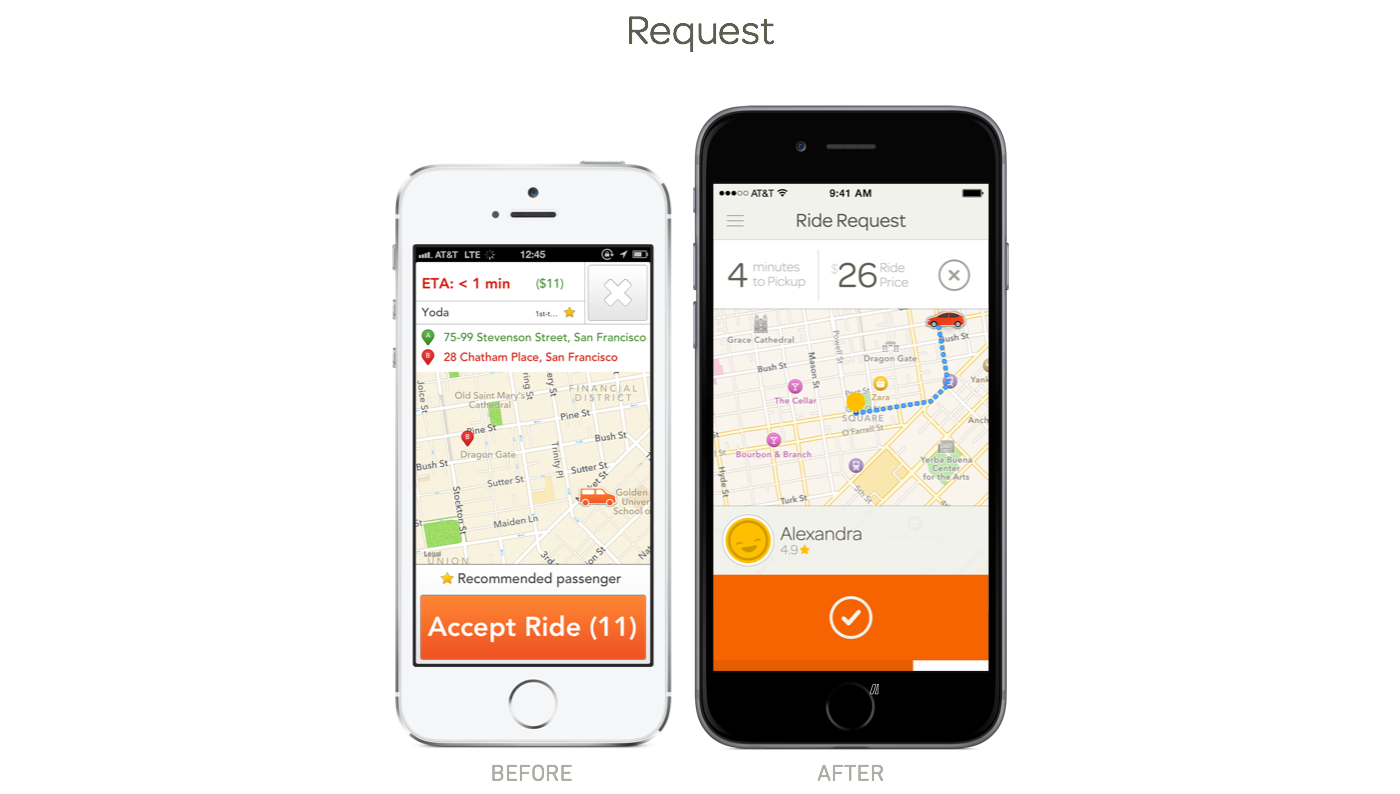
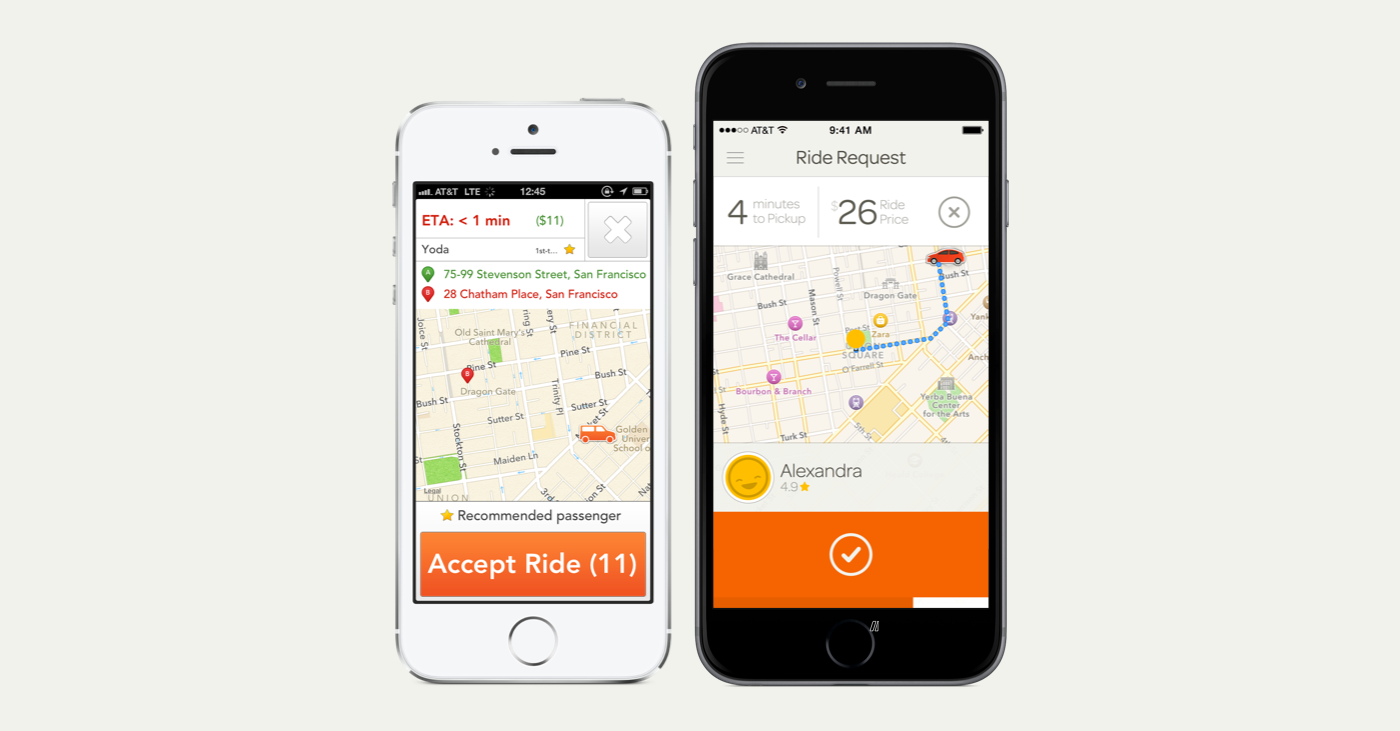
new photo. updated style. and more driver app walkthrough

Changed region(s): [[0.2764, 0.0301, 0.7371, 0.9932]]

diff --git a/design/sidecar/drive/index.html b/design/sidecar/drive/index.html
@@ -2,7 +2,7 @@
 layout: default 
 title: Design
 ---
-<img class="full" src="scd_hero.png">
+<img data-action="zoom" data-action="zoom" class="full" src="scd_hero.png">
 
 <div class="section_header">
   <p>The driver app, in my opinion, is one of the coolest pieces of software that we at Sidecar have produced. In the background, the amount of optimization the team has done to efficiently match people and packages paired with the
@@ -11,7 +11,7 @@ title: Design
 </div>
 
 
-<img data-action="zoom" class="full" src="scd_old.png">
+<img data-action="zoom" data-action="zoom" class="full" src="scd_old.png">
 <p class="img_caption">The original Sidecar Drive app. Circa 2013. Not my best showing.</p>
 
 <h1>I. The Problem</h1>
@@ -47,8 +47,9 @@ Any new feature would immediately break the design paradigm or lack thereof. Tha
 <p>After interviewing drivers, gathering historical data on usage, and landing on goals and priorities I grabbed a bunch of paper, a few markers, and started
 listening to Ratatat's LP4. It was game time.</p>
 
-<img class="full" src="scd_ride_request.png">
+<img data-action="zoom" class="full" src="scd_ride_request.png">
 
+<h3>The Request</h3>
 <p>The request screen is what a Driver uses to accept or decline a ride or delivery trip. With a lot of information (price, ETA, multiple waypoints) and only 12 seconds
 to make a decision, Drivers were feeling rushed and said they would love to have more time to accept. While we could've added more time that would impact Riders
 and the system as a whole so I tried to see if we could solve the issue in another way.</p>
@@ -65,15 +66,37 @@ a few interviews the information fell into this order:
 presentable way, I wanted to see if there were other ways we could bend time and help Drivers not feel rushed. I knew designers have used visual tricks to make progress bars
 look faster than they are so I figured we could do the opposite and make it appear slower.</p>
 
-<img class="full" src="scd_request_timer.png">
+<img data-action="zoom" class="full" src="scd_request_timer.png">
 <p class="img_caption">Top: Normal. Middle: "Sped up". Bottom: "Slowed down"</p>
+
+<p>While the effect doesn't massively "slow down" the movement, some people were tricked into thinking that the bottom-most timer was a second or two longer than the others. Magic!</p>
+
+<h3>Riders</h3>
+<p>With the introduction of Shared Rides, and knowing that Deliveries were only a few months away from productization, we realized we needed a scalable and flexible
+way for drivers to view waypoints, contact riders/recipients, and take other actions on the waypoints. A key consideration when designing the whole app was ensuring it was usable
+when in a car and potentially from a distance. A term we used to describe these design considerations was 'half-height UI' since an arm-length is half of a persons height (unless you're Michael Phelps and your arms are oddly long).</p> 
+
+<p>Below are some explorations around how Drivers can contact Riders and manage their rides:</p>
+
+<img data-action="zoom" class="full" src="co_pilot_v1.jpg">
+<p>In an effort to make tap areas large, this utilized the whole screen as the container for important functions.</p>
+<img data-action="zoom" class="full" src="co_pilot_v4.jpg">
+<img data-action="zoom" class="full" src="co_pilot_v5.jpg">
+<p>This is similar to the exploration above but this was an effort to create something that could be a bit more extensible to more functions and more riders. This was
+inspired by Apple's Assistive Touch accessiblity feature on iOS. I really loved this direction but after prototyping it, it was too much of a guessing game as to
+what functions will appear where. When a Driver is on the road, muscle memory is key and always having to guess where a button will be is not a good practice.</p>
+
+<p>Moving away from an interface that was very fluid and flexible, I started to explore more concrete implementations.</p>
+<img data-action="zoom" class="full" src="co_pilot_v2.jpg">
+<img data-action="zoom" class="full" src="co_pilot_v3.jpg">
+
 <!--
 <p>Since Driver's spend so much of their time driving and using navigation apps – it felt important to me to study those apps and understand the
 underlying principles and interaction paradigms they used. Some of the most common apps our driver used were Waze, Google Maps, and Apple maps. It was
 interesting to see how each app had it's own approach to destination entry, turn-by-turn, and trip itineraries. Waze did a good job handling automatic actions (allowing
 the driver to keep their hands on the wheel). Apple Maps has a very nice turn-by-turn implementation but is a bit fidgety and doesn't elegantly handle map panning. </p>
 
-<img class="full" src="map_apps.png">
+<img data-action="zoom" class="full" src="map_apps.png">
 -->
 
 

diff --git a/photos/photos.html b/photos/photos.html
@@ -3,12 +3,12 @@ layout: default
 title: Photos
 permalink: /photos/
 ---
-
+<img class="full" src="/img/photography/palace.jpg"></img>
 <img class="full" src="/img/photography/car_wash.jpg"></img>
 <p class="img_caption">Weekend Wash • 5.17.15</p>
 
 <img class="full" src="/img/photography/muji.jpg"></img>
-<p class="img_caption">Bought this beautiful humidifier from Muji. • 5.12.15</p>
+<p class="img_caption">Muji's humidifier • 5.12.15</p>
 
 <img class="full" src="/img/photography/wine_country.jpg"></img>
 <p class="img_caption">Captured this just outside the Artessa Winery in Napa Valley • 4.28.15</p>

diff --git a/css/style.css b/css/style.css
@@ -5,7 +5,7 @@ html, body {
   width: 100%;
 }
 
-body, dl, ol, ul, 
+body, dl, ol, ul, h3 
 button, input, select, textarea {
   margin: 0;
 }
@@ -199,7 +199,6 @@ footer {
 
 footer > div {
   opacity: .5;
-  padding-top: 20px;
 }
 
 div.about {
